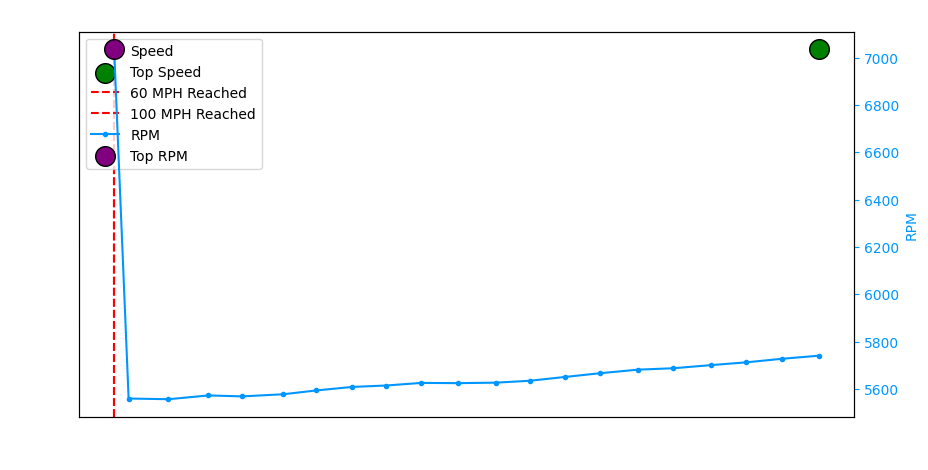
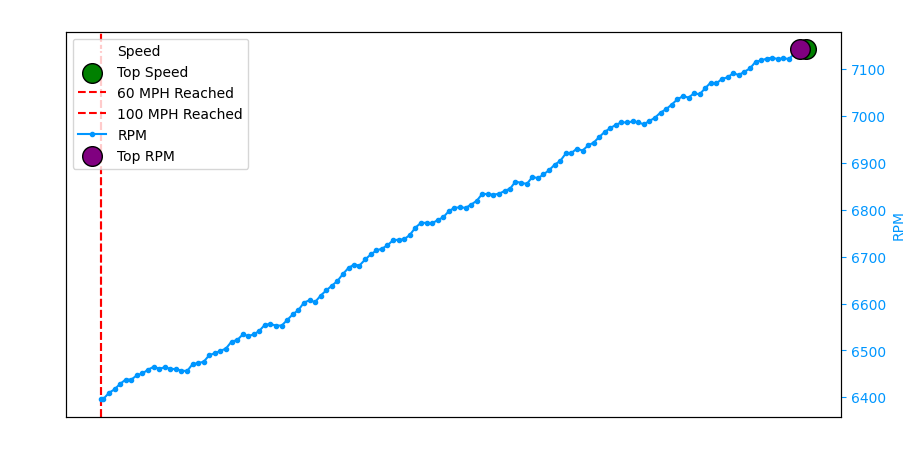
better simulation data

diff --git a/Dash/dash.py b/Dash/dash.py
@@ -526,7 +526,7 @@ def main():
                 rpm = min(int(rpm + rpm_increment), rpm_max)  # Increment RPM with cap at max RPM
                 
                 if rpm < rpm_max:
-                    speed_increment = (current_ratio / max(gear_ratios)) * .5
+                    speed_increment = (rpm/rpm_max)*(current_ratio / max(gear_ratios))
 
                     # Increase speed
                     speed += speed_increment
